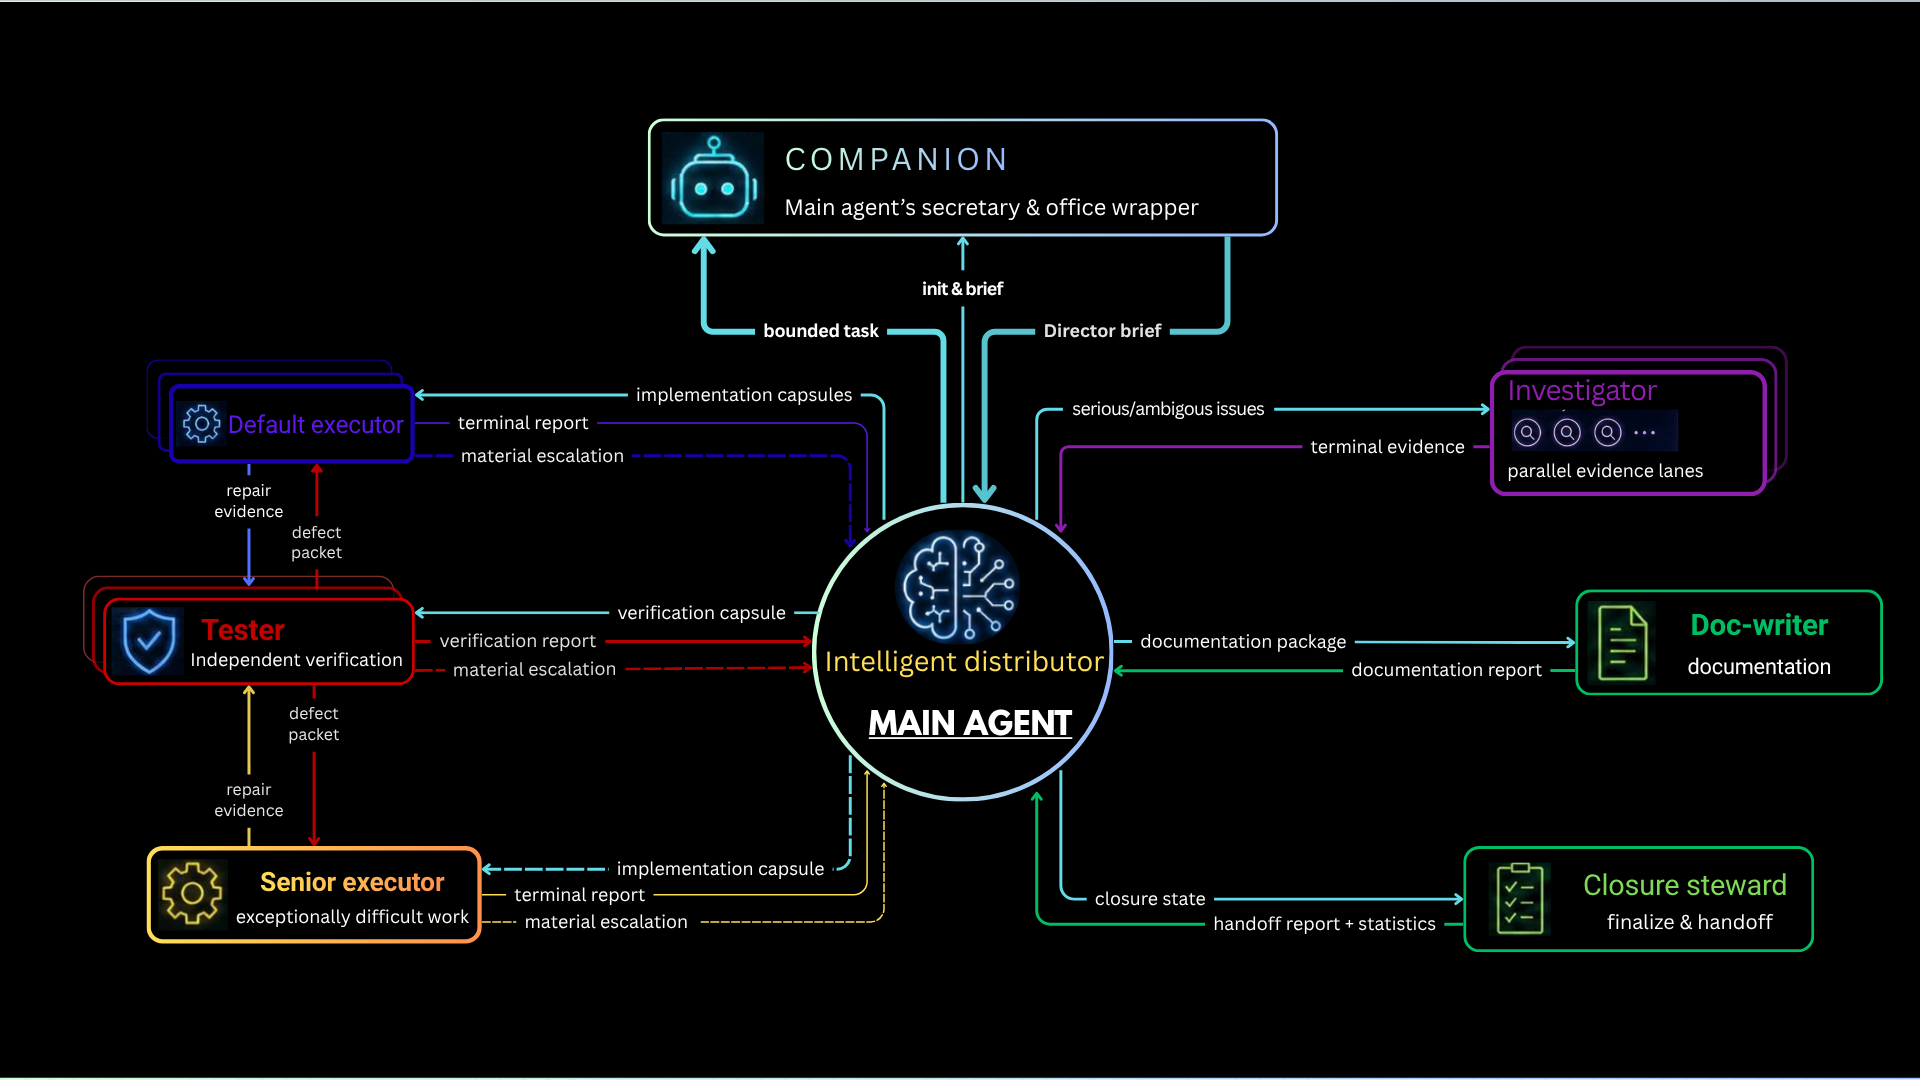
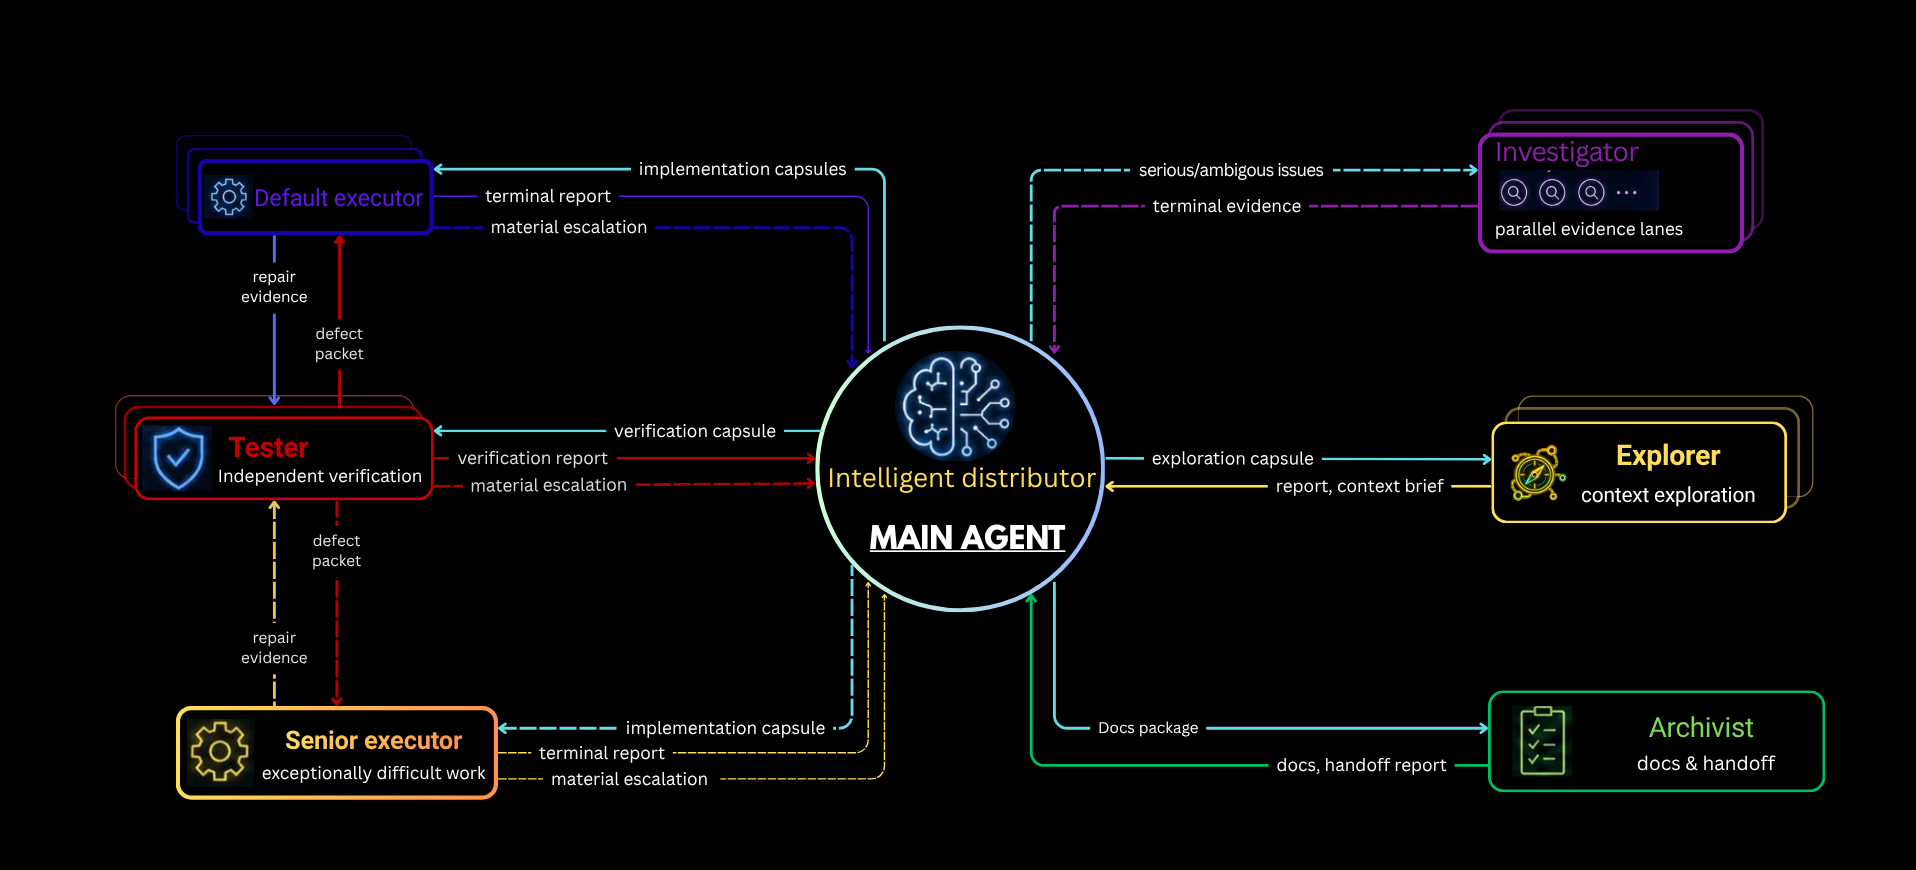
Add heavy route structure to README

Changed region(s): [[0.0308, 0.0931, 0.9854, 0.931], [0.0, 0.9931, 1.0, 1.0]]

diff --git a/README.md b/README.md
@@ -53,6 +53,9 @@ use medium/heavy route. Continue ongoing work.
 In Heavy, workers return compact evidence-linked reports directly to the main
 agent through Codex's parent-child result channel. The main batches related
 workers and makes one decision after the relevant reports arrive.
+![Heavy route](heavy_route_structure.png)
+
+*Heavy route*
 
 What's special about the system:
 
